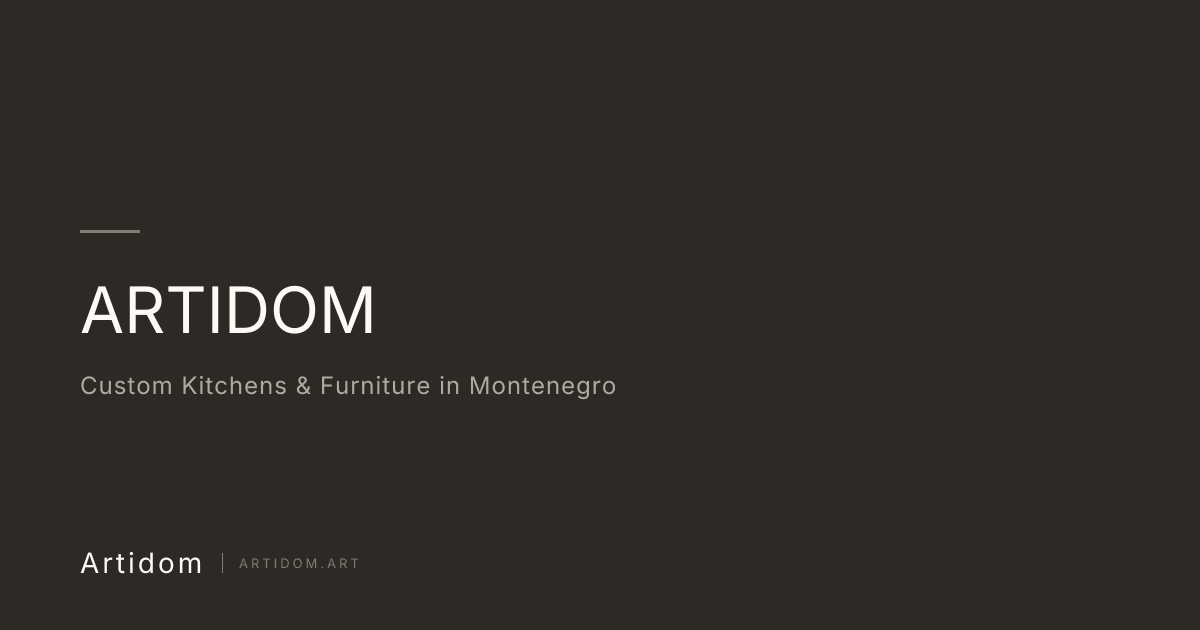
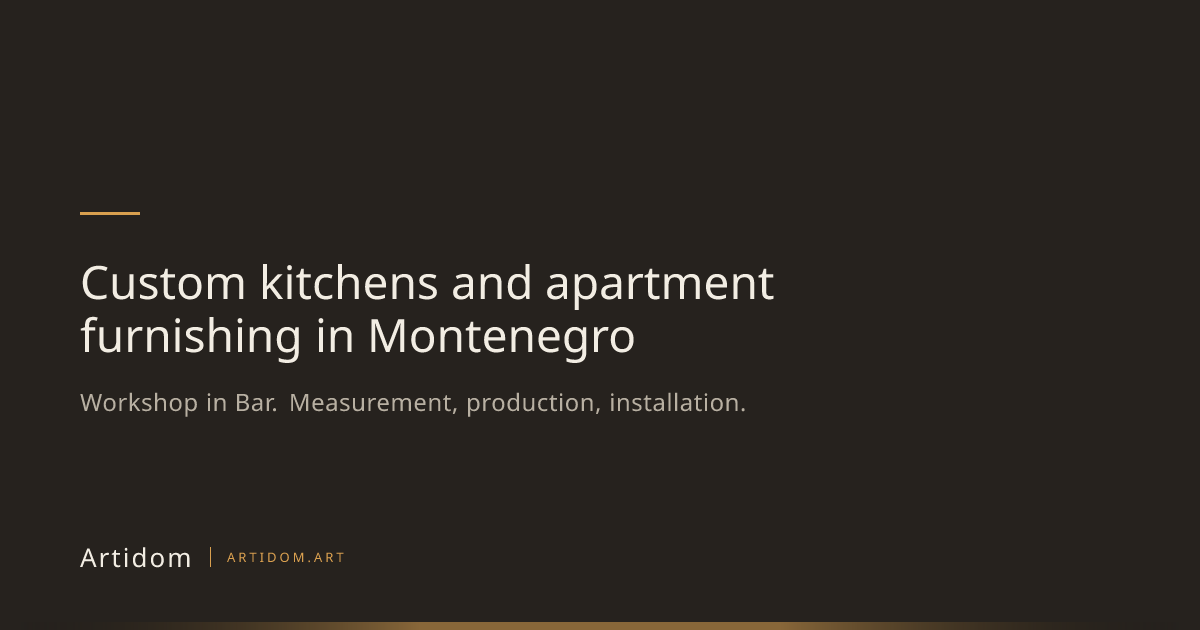
feat(og): тёмные OG-карточки Night Showroom, регенерация статичных

diff --git a/src/app/api/og/route.tsx b/src/app/api/og/route.tsx
@@ -3,6 +3,7 @@ import { NextRequest } from 'next/server'
 
 export const runtime = 'edge'
 
+// Night Showroom OG card (2026-07 redesign): warm graphite, amber light line, no italics.
 export async function GET(req: NextRequest) {
   const { searchParams } = req.nextUrl
   const title = searchParams.get('title') || 'ARTIDOM'
@@ -18,75 +19,53 @@ export async function GET(req: NextRequest) {
           flexDirection: 'column',
           justifyContent: 'center',
           padding: '80px',
-          backgroundColor: '#2d2a26',
+          backgroundColor: '#26221e',
           position: 'relative',
           overflow: 'hidden',
         }}
       >
-        {/* Декоративная спираль-аммонит */}
-        <svg
-          width="500"
-          height="500"
-          viewBox="0 0 200 200"
-          style={{
-            position: 'absolute',
-            right: '-40px',
-            bottom: '-60px',
-            opacity: 0.08,
-          }}
-        >
-          <path
-            d="M100 10 C140 10 180 50 180 100 C180 150 140 180 100 180 C60 180 30 150 30 110 C30 70 60 50 90 50 C120 50 145 70 145 100 C145 130 120 148 95 148 C70 148 52 130 52 108 C52 86 70 72 90 72 C110 72 124 86 124 104 C124 122 110 132 94 132 C78 132 68 120 68 106 C68 92 78 84 92 84"
-            fill="none"
-            stroke="#e5e0d8"
-            strokeWidth="2.5"
-          />
-        </svg>
-
-        {/* Акцентная линия */}
+        {/* Amber accent line */}
         <div
           style={{
             width: '60px',
             height: '3px',
-            backgroundColor: '#7a826e',
+            backgroundColor: '#d9a04f',
             marginBottom: '40px',
           }}
         />
 
-        {/* Заголовок */}
+        {/* Title */}
         <div
           style={{
-            fontSize: title.length > 40 ? '48px' : '64px',
-            color: '#fdfaf5',
-            fontWeight: 300,
-            fontStyle: 'italic',
+            fontSize: title.length > 40 ? '46px' : '62px',
+            color: '#f2ede3',
+            fontWeight: 600,
             lineHeight: 1.15,
-            maxWidth: '800px',
+            maxWidth: '840px',
             marginBottom: '24px',
           }}
         >
           {title}
         </div>
 
-        {/* Подзаголовок */}
+        {/* Subtitle */}
         <div
           style={{
             fontSize: '24px',
-            color: '#e5e0d8',
-            fontWeight: 300,
-            letterSpacing: '1px',
-            maxWidth: '700px',
-            opacity: 0.7,
+            color: '#b8b0a2',
+            fontWeight: 400,
+            letterSpacing: '0.5px',
+            maxWidth: '720px',
           }}
         >
           {subtitle}
         </div>
 
-        {/* Лого внизу */}
+        {/* Footer row */}
         <div
           style={{
             position: 'absolute',
-            bottom: '50px',
+            bottom: '56px',
             left: '80px',
             display: 'flex',
             alignItems: 'center',
@@ -95,11 +74,10 @@ export async function GET(req: NextRequest) {
         >
           <div
             style={{
-              fontSize: '28px',
-              color: '#fdfaf5',
-              fontStyle: 'italic',
-              fontWeight: 300,
-              letterSpacing: '3px',
+              fontSize: '26px',
+              color: '#f2ede3',
+              fontWeight: 600,
+              letterSpacing: '2px',
             }}
           >
             Artidom
@@ -108,13 +86,13 @@ export async function GET(req: NextRequest) {
             style={{
               width: '1px',
               height: '20px',
-              backgroundColor: '#7a826e',
+              backgroundColor: '#d9a04f',
             }}
           />
           <div
             style={{
               fontSize: '13px',
-              color: '#7a826e',
+              color: '#d9a04f',
               letterSpacing: '3px',
               textTransform: 'uppercase' as const,
             }}
@@ -122,6 +100,19 @@ export async function GET(req: NextRequest) {
             artidom.art
           </div>
         </div>
+
+        {/* Underlighting bar */}
+        <div
+          style={{
+            position: 'absolute',
+            bottom: 0,
+            left: 0,
+            right: 0,
+            height: '8px',
+            background: 'linear-gradient(90deg, transparent 0%, #d9a04f 35%, #d9a04f 65%, transparent 100%)',
+            opacity: 0.55,
+          }}
+        />
       </div>
     ),
     {
